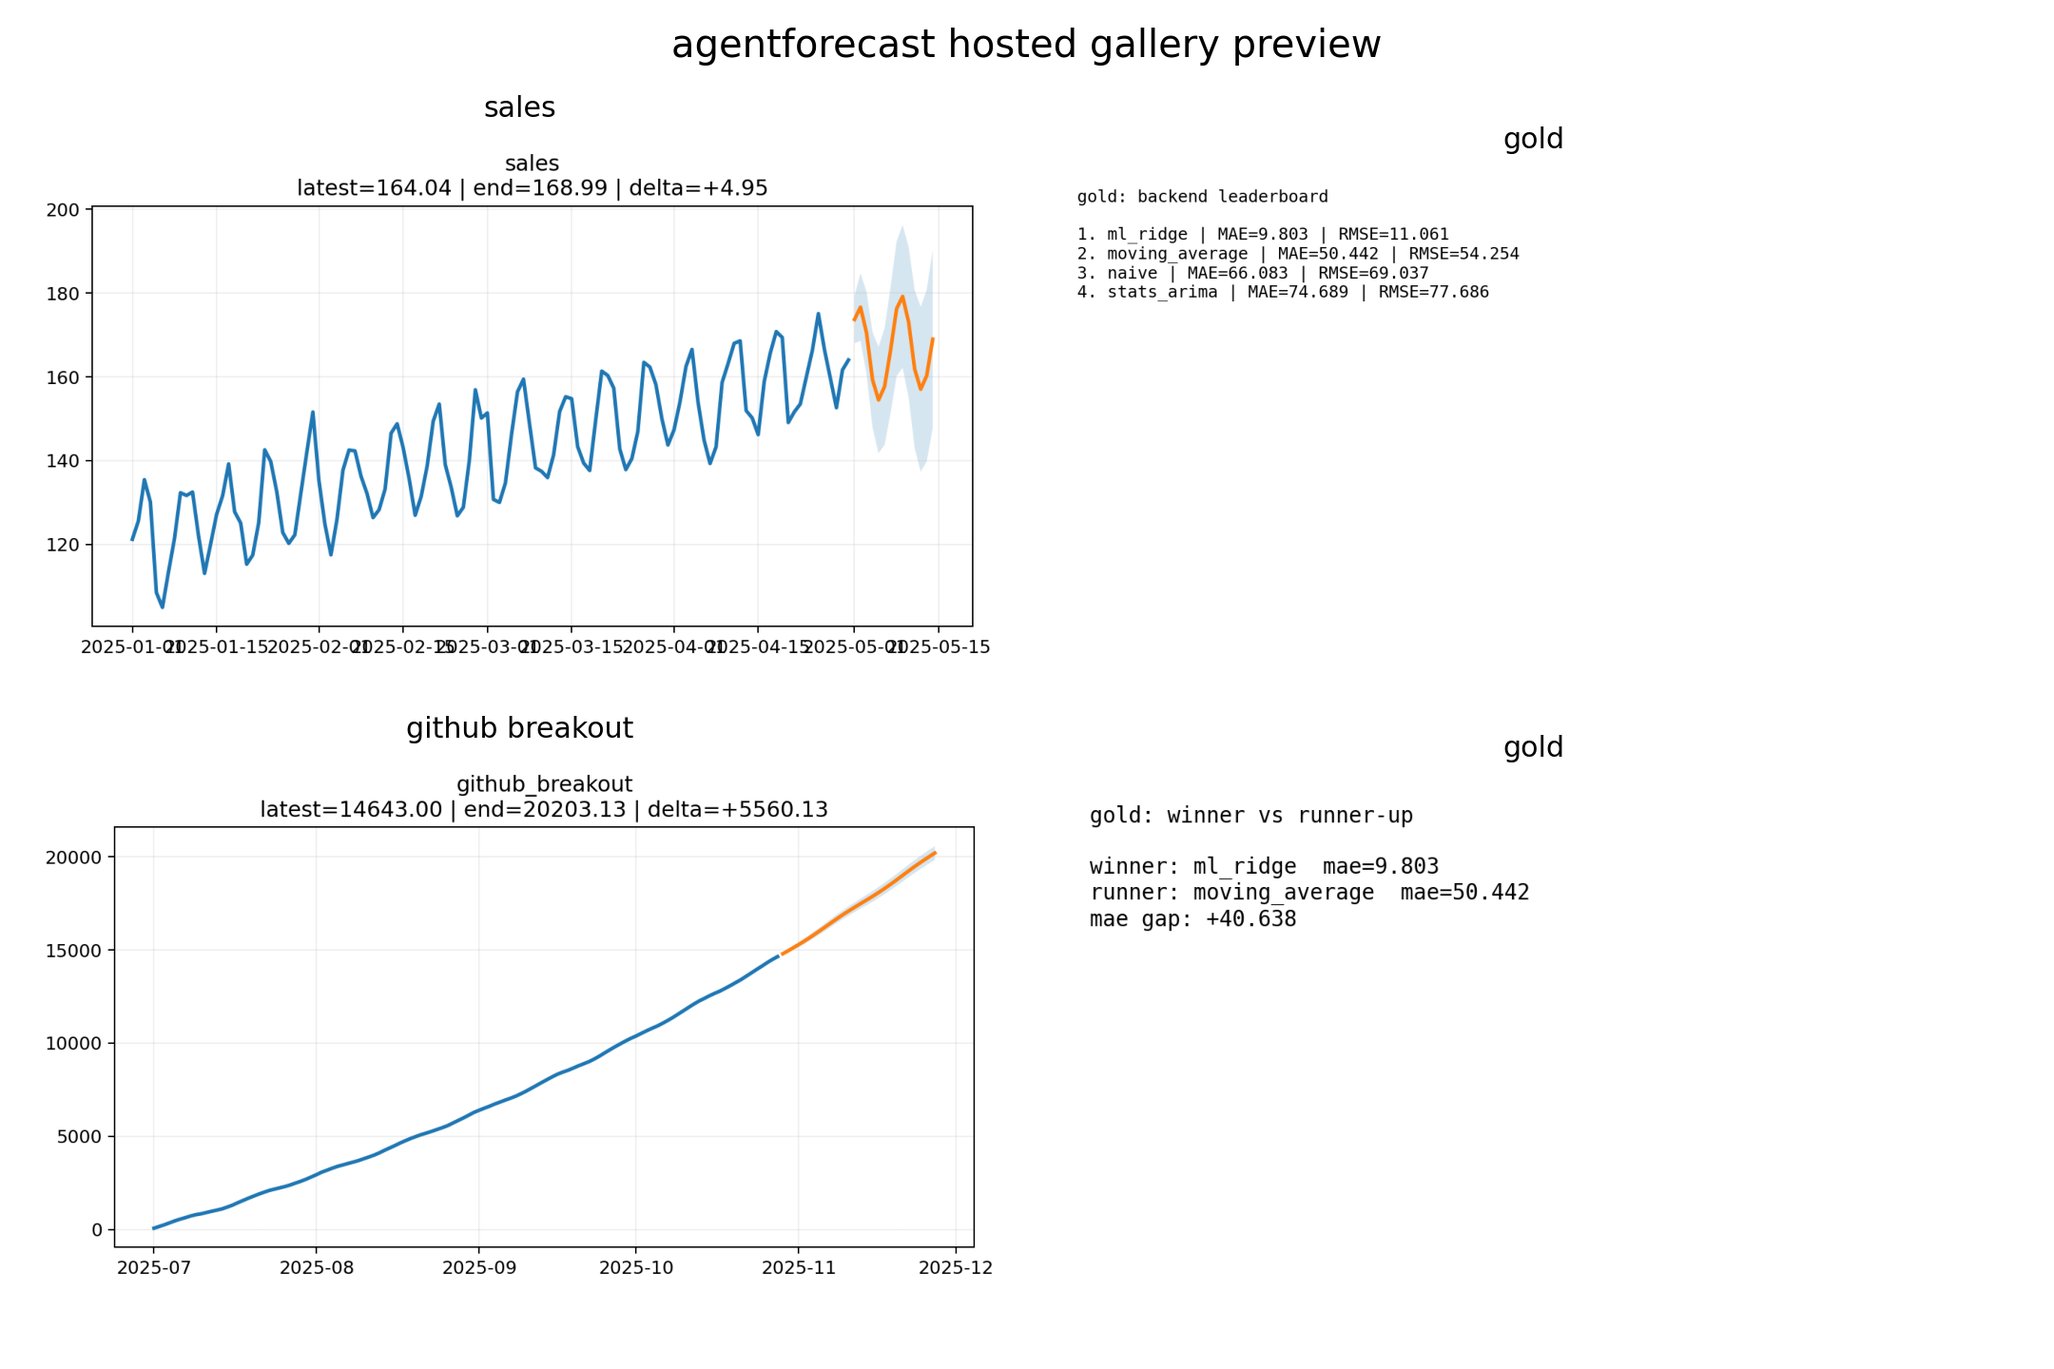
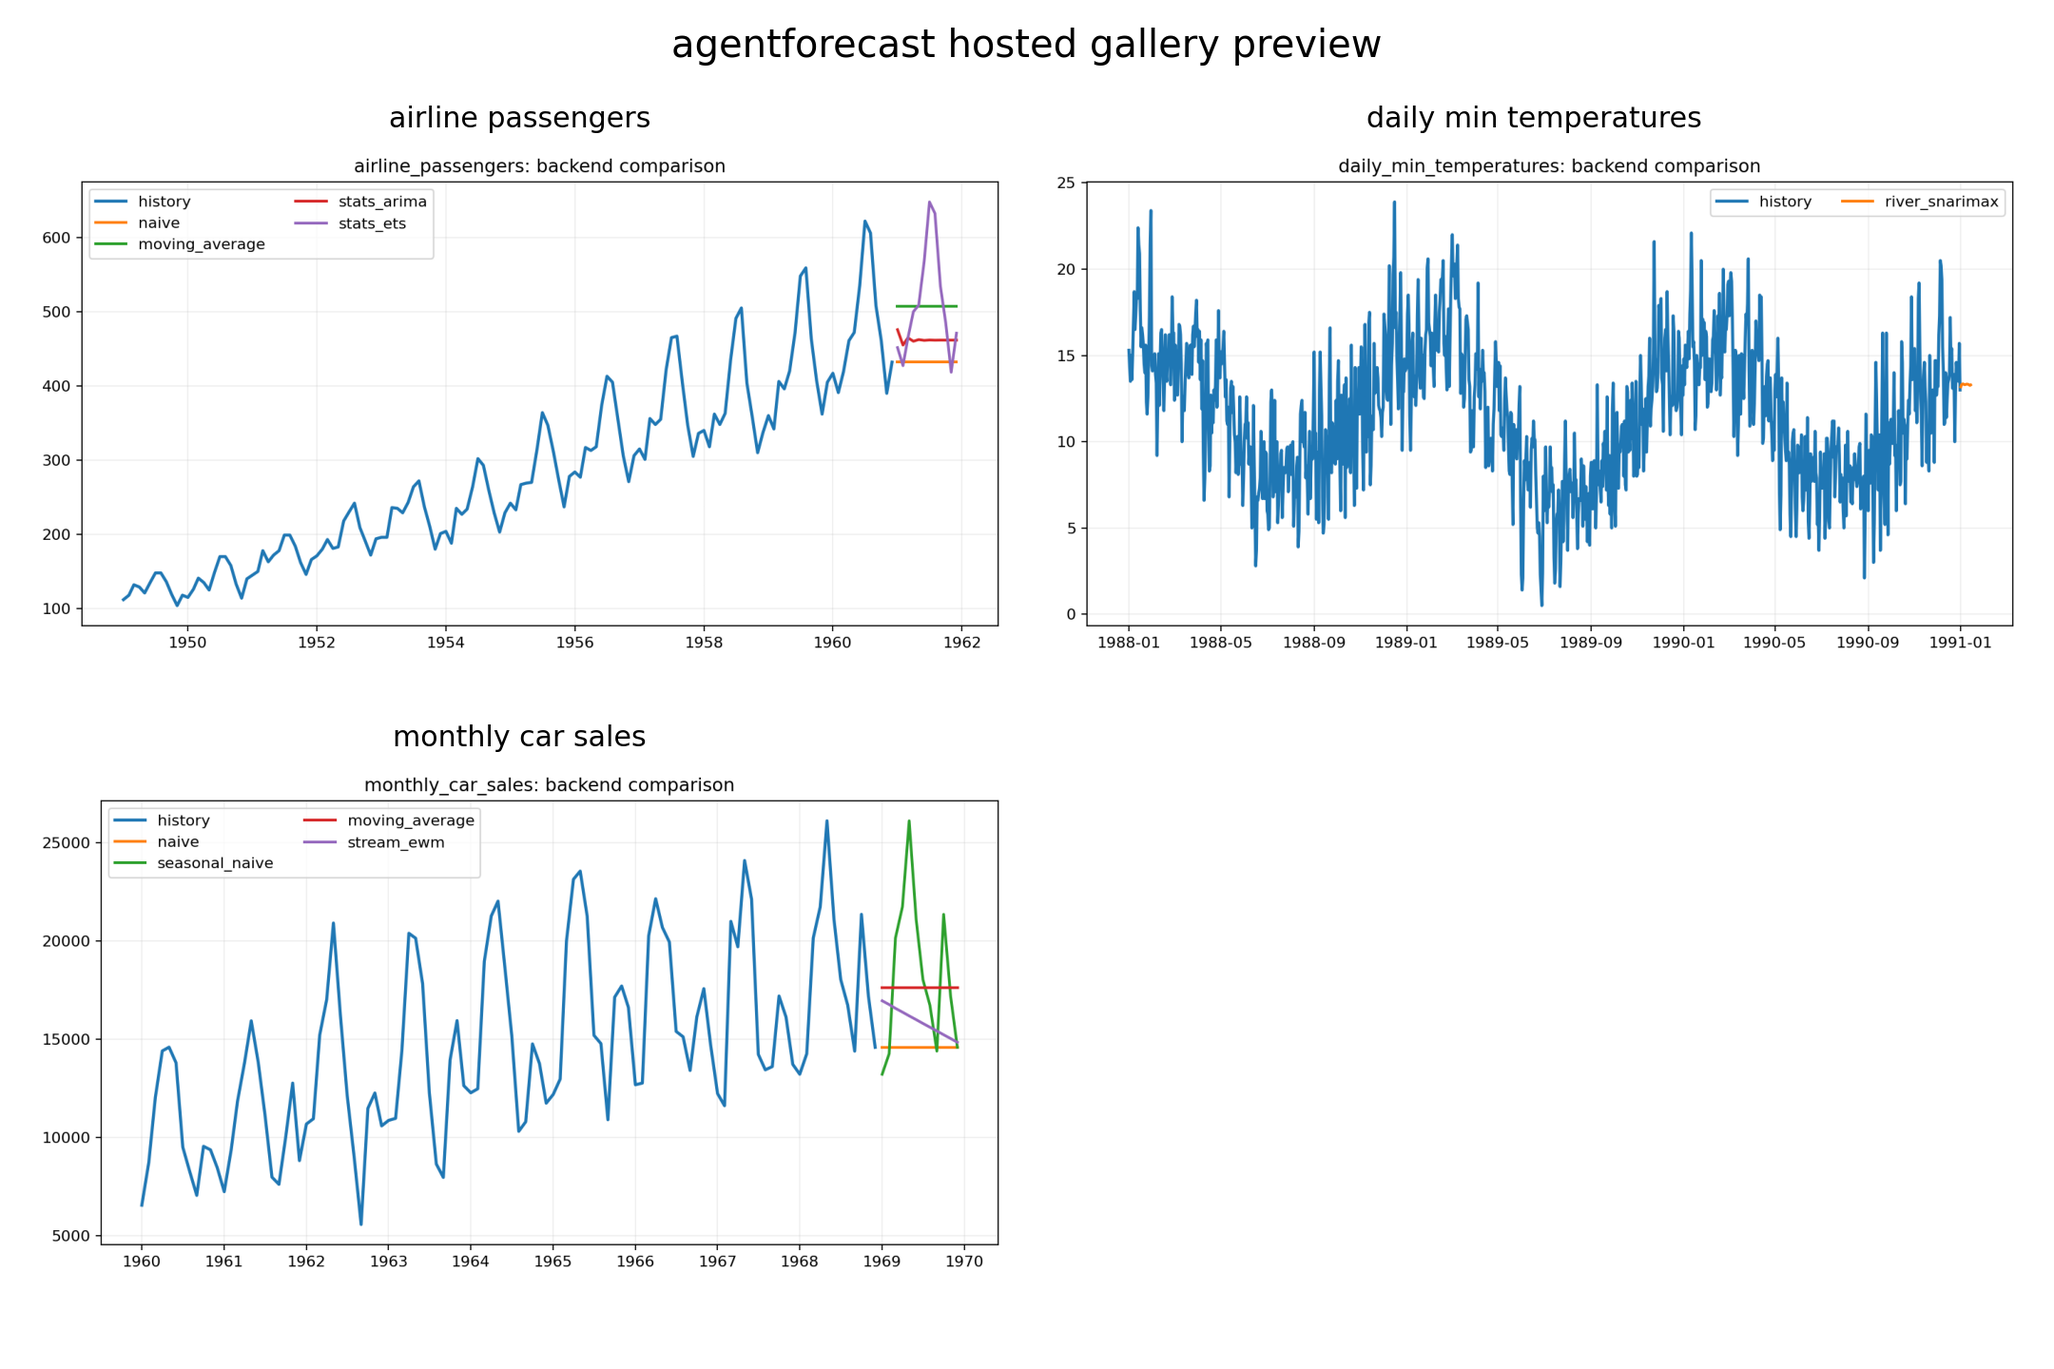
Fix Pages gallery preview build

diff --git a/public_gallery/site/index.html b/public_gallery/site/index.html
@@ -655,7 +655,7 @@ img {
 </style>
 </head>
 <body>
-<header class='topbar'><div class='shell topbar-inner'><a class='brand' href='index.html'><span class='brand-mark'>AF</span><span class='brand-copy'><strong>agentforecast</strong><small>sunny scientific open source</small></span></a><nav class='nav-links'><a class='nav-link' href='#workflow'>Workflow</a><a class='nav-link' href='#packs'>Packs</a><a class='nav-link' href='#benchmarks'>Benchmarks</a><a class='nav-link' href='feed.json'>Feed</a><a class='button button-primary' href='#packs'>Browse packs</a></nav></div></header><main class='page'><div class='shell'><section class='hero'><div class='hero-copy'><div class='eyebrow'>Unified forecasting layer</div><h1>agentforecast public gallery</h1><p>A bright, productized surface for scientific forecasting. Compare backends, publish clean artifacts, and expose stable JSON and gallery outputs for humans and agents.</p><div class='author-strip'><a class='author-pill' href='mailto:zxw365@student.bham.ac.uk'><span class='author-mark'>ZW</span><span><strong>Zipeng Wu</strong></span></a><span class='author-pill author-pill-uob'>The University of Birmingham</span><a class='author-pill' href='mailto:zxw365@student.bham.ac.uk'>zxw365@student.bham.ac.uk</a></div><div class='hero-actions'><a class='button button-primary' href='#packs'>Explore public packs</a><a class='button button-secondary' href='feed.json'>Open JSON feed</a></div><div class='hero-meta'><span class='pill pill-accent'>white-background-first</span><span class='pill'>scientific clarity</span><span class='pill pill-blue'>agent-friendly outputs</span></div></div><aside class='hero-panel panel'><div><strong>Product promise</strong><p class='muted'>One command routes a series, scores visible backends, and exports cards, charts, markdown, CSV, and JSON.</p></div><div class='stat-grid'><article class='stat-card'><div class='muted'>Published packs</div><strong>3</strong><div class='muted'>Real forecast packs with charts, markdown, JSON, and cards.</div></article><article class='stat-card'><div class='muted'>Backends visible</div><strong>2</strong><div class='muted'>A small public surface over heterogeneous forecasting families.</div></article><article class='stat-card'><div class='muted'>Benchmark links</div><strong>10</strong><div class='muted'>Internal demo evidence kept separate from broader public benchmark hubs.</div></article><article class='stat-card'><div class='muted'>Launch posture</div><strong>public beta</strong><div class='muted'>Bright, legible, white-first UI designed for technical trust.</div></article></div><div class='code-block'>python -m agentforecast.cli shoot sales --outdir demo
+<header class='topbar'><div class='shell topbar-inner'><a class='brand' href='index.html'><span class='brand-mark'>AF</span><span class='brand-copy'><strong>agentforecast</strong><small>sunny scientific open source</small></span></a><nav class='nav-links'><a class='nav-link' href='#workflow'>Workflow</a><a class='nav-link' href='#packs'>Packs</a><a class='nav-link' href='#benchmarks'>Benchmarks</a><a class='nav-link' href='feed.json'>Feed</a><a class='button button-primary' href='#packs'>Browse packs</a></nav></div></header><main class='page'><div class='shell'><section class='hero'><div class='hero-copy'><div class='eyebrow'>Unified forecasting layer</div><h1>agentforecast public gallery</h1><p>A bright, productized surface for scientific forecasting. Compare backends, publish clean artifacts, and expose stable JSON and gallery outputs for humans and agents.</p><div class='author-strip'><a class='author-pill' href='mailto:zxw365@student.bham.ac.uk'><span class='author-mark'>ZW</span><span><strong>Zipeng Wu</strong></span></a><span class='author-pill author-pill-uob'>The University of Birmingham</span><a class='author-pill' href='mailto:zxw365@student.bham.ac.uk'>zxw365@student.bham.ac.uk</a></div><div class='hero-actions'><a class='button button-primary' href='#packs'>Explore public packs</a><a class='button button-secondary' href='feed.json'>Open JSON feed</a></div><div class='hero-meta'><span class='pill pill-accent'>white-background-first</span><span class='pill'>scientific clarity</span><span class='pill pill-blue'>agent-friendly outputs</span></div></div><aside class='hero-panel panel'><div><strong>Product promise</strong><p class='muted'>One command routes a series, scores visible backends, and exports cards, charts, markdown, CSV, and JSON.</p></div><div class='stat-grid'><article class='stat-card'><div class='muted'>Published packs</div><strong>3</strong><div class='muted'>Real forecast packs with charts, markdown, JSON, and cards.</div></article><article class='stat-card'><div class='muted'>Backends visible</div><strong>2</strong><div class='muted'>A small public surface over heterogeneous forecasting families.</div></article><article class='stat-card'><div class='muted'>Benchmark links</div><strong>10</strong><div class='muted'>Internal demo evidence kept separate from broader public benchmark hubs.</div></article><article class='stat-card'><div class='muted'>Launch posture</div><strong>public beta</strong><div class='muted'>Bright, legible, white-first UI designed for technical trust.</div></article></div><div class='code-block'>python -m agentforecast.cli forecast-url https://raw.githubusercontent.com/jbrownlee/Datasets/master/monthly-car-sales.csv --horizon 12 --outdir demo
 python -m agentforecast.cli demo-gallery --outdir public_gallery/demo_runs --site-dir public_gallery/site</div></aside></section><section class='section' id='features'><div class='section-head'><div><div class='eyebrow'>Why it feels different</div><h2>Product surface first, framework complexity second</h2></div><p>Bright and readable UI, stable artifact contracts, and backend routing make the package feel closer to a premium research product than a loose stack of scripts.</p></div><div class='feature-grid'><article class='feature-card'><h3>One command, many backends</h3><p class='muted'>Route from baseline to classical, tabular, or streaming backends without changing the outer product surface.</p></article><article class='feature-card'><h3>Publishable by default</h3><p class='muted'>Every run produces cards, charts, CSV, markdown, and JSON instead of a bare numeric array.</p></article><article class='feature-card'><h3>Agent-friendly contract</h3><p class='muted'>Stable fields such as schema refs, artifact maps, backend selection, warnings, and diagnostics.</p></article><article class='feature-card'><h3>Cross-disciplinary by design</h3><p class='muted'>Markets, healthcare, scientific operations, climate risk, and repo growth all fit the same pattern.</p></article></div></section><section class='section' id='workflow'><div class='section-head'><div><div class='eyebrow'>Workflow</div><h2>Point. Route. Publish.</h2></div><p>The gallery builder is opinionated about clarity: clean stats, high-contrast cards, simple code blocks, and obvious links to the underlying artifacts.</p></div><div class='workflow-grid'><article class='workflow-card'><h3>1. Point</h3><p class='muted'>Use a dataset id, case id, local CSV, directory, or URL.</p></article><article class='workflow-card'><h3>2. Route</h3><p class='muted'>Let backend auto-selection compare candidate methods or choose one explicitly.</p></article><article class='workflow-card'><h3>3. Publish</h3><p class='muted'>Get charts, cards, markdown, JSON, and leaderboard artifacts.</p></article><article class='workflow-card'><h3>4. Reuse</h3><p class='muted'>Push the static gallery to GitHub Pages or consume the JSON from an agent.</p></article></div></section><section class='section' id='packs'><div class='section-head'><div><div class='eyebrow'>Forecast packs</div><h2>Public runs, ready to scan</h2></div><p>Every card is built from the same product contract: selected backend, transparent metrics, copied artifacts, and a clean path into the case detail page.</p></div><div class='card-grid'><a class='gallery-card-link' href='cases/airline-passengers.html'><article class='gallery-card'><div class='gallery-card-media'><img src='assets/airline-passengers/backend_comparison.png' alt='airline_passengers'></div><div class='gallery-card-body'><div class='mini-row'><span class='badge'>stats_ets</span><span class='muted'>airline-passengers</span></div><h3>airline_passengers</h3><p class='gallery-card-headline'>airline_passengers: stats_ets won the backend comparison and produced a publishable pack.</p><div class='gallery-card-footer'><div class='mini-row'><span>latest</span><strong>432.00</strong></div><div class='mini-row'><span>projected end</span><strong>471.05</strong></div></div></div></article></a><a class='gallery-card-link' href='cases/daily-min-temperatures.html'><article class='gallery-card'><div class='gallery-card-media'><img src='assets/daily-min-temperatures/backend_comparison.png' alt='daily_min_temperatures'></div><div class='gallery-card-body'><div class='mini-row'><span class='badge'>river_snarimax</span><span class='muted'>daily-min-temperatures</span></div><h3>daily_min_temperatures</h3><p class='gallery-card-headline'>daily_min_temperatures: river_snarimax won the backend comparison and produced a publishable pack.</p><div class='gallery-card-footer'><div class='mini-row'><span>latest</span><strong>13</strong></div><div class='mini-row'><span>projected end</span><strong>13.291</strong></div></div></div></article></a><a class='gallery-card-link' href='cases/monthly-car-sales.html'><article class='gallery-card'><div class='gallery-card-media'><img src='assets/monthly-car-sales/backend_comparison.png' alt='monthly_car_sales'></div><div class='gallery-card-body'><div class='mini-row'><span class='badge'>stats_ets</span><span class='muted'>monthly-car-sales</span></div><h3>monthly_car_sales</h3><p class='gallery-card-headline'>monthly_car_sales: stats_ets won the backend comparison and produced a publishable pack.</p><div class='gallery-card-footer'><div class='mini-row'><span>latest</span><strong>14,577</strong></div><div class='mini-row'><span>projected end</span><strong>17,096</strong></div></div></div></article></a></div></section><section class='section' id='benchmarks'><div class='section-head'><div><div class='eyebrow'>Benchmark hub</div><h2>Internal transparency, external honesty</h2></div><p>The site keeps internal pack evidence visible, while linking out to broader public benchmark hubs instead of pretending that a tiny repo-local score table settles the field.</p></div><div class='table-wrap'><table class='table'><thead><tr><th>Name</th><th>Kind</th><th>Link</th></tr></thead><tbody><tr><td>Monash / ForecastingData repository</td><td>dataset hub</td><td><a href='https://forecastingdata.org/'>https://forecastingdata.org/</a></td></tr><tr><td>Monash baseline evaluation results</td><td>baseline results</td><td><a href='https://forecastingdata.org/RMSSE.html'>https://forecastingdata.org/RMSSE.html</a></td></tr><tr><td>M4 competition</td><td>competition</td><td><a href='https://www.unic.ac.cy/iff/research/forecasting/m-competitions/m4/'>https://www.unic.ac.cy/iff/research/forecasting/m-competitions/m4/</a></td></tr><tr><td>M5 competition</td><td>competition</td><td><a href='https://www.unic.ac.cy/iff/research/forecasting/m-competitions/m5/'>https://www.unic.ac.cy/iff/research/forecasting/m-competitions/m5/</a></td></tr><tr><td>OpenTS-Bench / OpenTS</td><td>leaderboard hub</td><td><a href='https://decisionintelligence.github.io/OpenTS/'>https://decisionintelligence.github.io/OpenTS/</a></td></tr><tr><td>TFB repository</td><td>benchmark codebase</td><td><a href='https://github.com/decisionintelligence/TFB'>https://github.com/decisionintelligence/TFB</a></td></tr><tr><td>GIFT-Eval repository</td><td>benchmark</td><td><a href='https://github.com/SalesforceAIResearch/gift-eval'>https://github.com/SalesforceAIResearch/gift-eval</a></td></tr><tr><td>GIFT-Eval public leaderboard</td><td>leaderboard</td><td><a href='https://huggingface.co/spaces/Salesforce/GIFT-Eval'>https://huggingface.co/spaces/Salesforce/GIFT-Eval</a></td></tr><tr><td>ForecastBench baseline leaderboard</td><td>leaderboard</td><td><a href='https://www.forecastbench.org/baseline/'>https://www.forecastbench.org/baseline/</a></td></tr><tr><td>ForecastBench tournament leaderboard</td><td>leaderboard</td><td><a href='https://www.forecastbench.org/tournament/'>https://www.forecastbench.org/tournament/</a></td></tr></tbody></table></div></section><section class='section'><div class='footer-card'><div><div class='eyebrow'>Launch CTA</div><h2 style='margin:0 0 10px;'>Use the gallery as the ecosystem front door</h2><p class='muted' style='max-width:60ch;'>Keep the repo bright, legible, and optimistic. Lead with public packs, then let users drill into markdown, CSV, JSON, and benchmark links.</p></div><div class='hero-actions'><a class='button button-primary' href='feed.json'>Download feed</a><a class='button button-secondary' href='#packs'>Review cases</a></div></div></section><div class='footer'><div class='footer-card'><div><h3 style='margin:0 0 8px;'>Author</h3><p class='muted' style='margin:0;'>Created by Zipeng Wu at The University of Birmingham. Contact: <a href='mailto:zxw365@student.bham.ac.uk'>zxw365@student.bham.ac.uk</a>.</p></div><div class='footer-note'>Built by the agentforecast hosted gallery builder. White-first design language tuned for modern scientific open source.</div></div></div></div></main>
 </body>
 </html>

diff --git a/agentforecast/hosted.py b/agentforecast/hosted.py
@@ -46,6 +46,14 @@ def _copy_artifact(src: Path, dst_root: Path, slug: str) -> str:
     return dst.relative_to(dst_root).as_posix()
 
 
+def _portable_path(path: Path) -> str:
+    resolved = path.resolve()
+    try:
+        return resolved.relative_to(Path.cwd().resolve()).as_posix()
+    except ValueError:
+        return resolved.as_posix()
+
+
 def collect_gallery_entries(runs_root: str | Path) -> list[GalleryEntry]:
     runs_root = Path(runs_root)
     entries: list[GalleryEntry] = []
@@ -54,7 +62,7 @@ def collect_gallery_entries(runs_root: str | Path) -> list[GalleryEntry]:
     for meta in sorted(runs_root.glob("*/meta/metadata.json")):
         payload = read_json(meta)
         root = meta.parent.parent
-        artifact_map = {item["kind"]: (root / item["path"]).as_posix() for item in payload.get("artifacts", [])}
+        artifact_map = {item["kind"]: _portable_path(root / item["path"]) for item in payload.get("artifacts", [])}
         entries.append(
             GalleryEntry(
                 slug=root.name,
@@ -979,7 +987,7 @@ def build_hosted_site(runs_root: str | Path, site_dir: str | Path, *, gallery_ti
         + "<aside class='hero-panel panel'>"
         + "<div><strong>Product promise</strong><p class='muted'>One command routes a series, scores visible backends, and exports cards, charts, markdown, CSV, and JSON.</p></div>"
         + _summary_cards(public_entries, len(benchmark_items))
-        + "<div class='code-block'>python -m agentforecast.cli shoot sales --outdir demo\npython -m agentforecast.cli demo-gallery --outdir public_gallery/demo_runs --site-dir public_gallery/site</div>"
+        + "<div class='code-block'>python -m agentforecast.cli forecast-url https://raw.githubusercontent.com/jbrownlee/Datasets/master/monthly-car-sales.csv --horizon 12 --outdir demo\npython -m agentforecast.cli demo-gallery --outdir public_gallery/demo_runs --site-dir public_gallery/site</div>"
         + "</aside></section>"
     )
 

diff --git a/scripts/build_gallery_preview.py b/scripts/build_gallery_preview.py
@@ -1,6 +1,7 @@
 from __future__ import annotations
 
 from pathlib import Path
+import json
 import sys
 
 ROOT = Path(__file__).resolve().parents[1]
@@ -12,7 +13,15 @@ import matplotlib.pyplot as plt
 from agentforecast.utils import ensure_dir
 
 ASSETS = ensure_dir(ROOT / 'assets')
-SITE = ROOT / 'public_gallery' / 'site' / 'assets'
+SITE = ROOT / 'public_gallery' / 'site'
+_PREFERRED_KINDS = (
+    'comparison_png',
+    'forecast_card_png',
+    'leaderboard_card_png',
+    'delta_card_png',
+    'drift_alert_card_png',
+    'forecast_png',
+)
 
 
 def _pick(path: Path) -> Path:
@@ -21,13 +30,28 @@ def _pick(path: Path) -> Path:
     return path
 
 
+def _preview_images(limit: int = 4) -> list[Path]:
+    feed = json.loads((SITE / 'feed.json').read_text(encoding='utf-8'))
+    images: list[Path] = []
+    for item in feed.get('items', []):
+        public_artifacts = item.get('public_artifacts', {})
+        for kind in _PREFERRED_KINDS:
+            raw = public_artifacts.get(kind)
+            if not raw:
+                continue
+            candidate = _pick(SITE / raw)
+            if candidate not in images:
+                images.append(candidate)
+                break
+        if len(images) >= limit:
+            break
+    if not images:
+        raise FileNotFoundError('No gallery preview images found in public_gallery/site/feed.json')
+    return images
+
+
 def main() -> None:
-    images = [
-        _pick(SITE / 'sales' / 'forecast_card.png'),
-        _pick(SITE / 'gold' / 'leaderboard_card.png'),
-        _pick(SITE / 'github-breakout' / 'forecast_card.png'),
-        _pick(SITE / 'gold' / 'winner_vs_runnerup_delta.png'),
-    ]
+    images = _preview_images()
     fig = plt.figure(figsize=(12, 8))
     gs = fig.add_gridspec(2, 2)
     for idx, path in enumerate(images):
